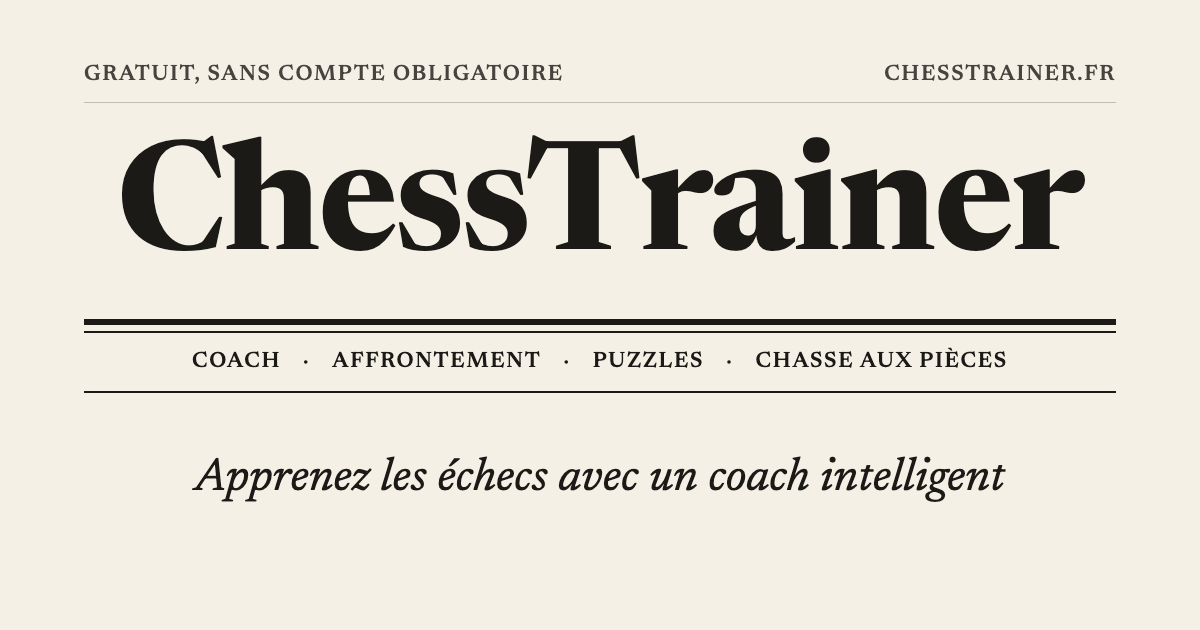
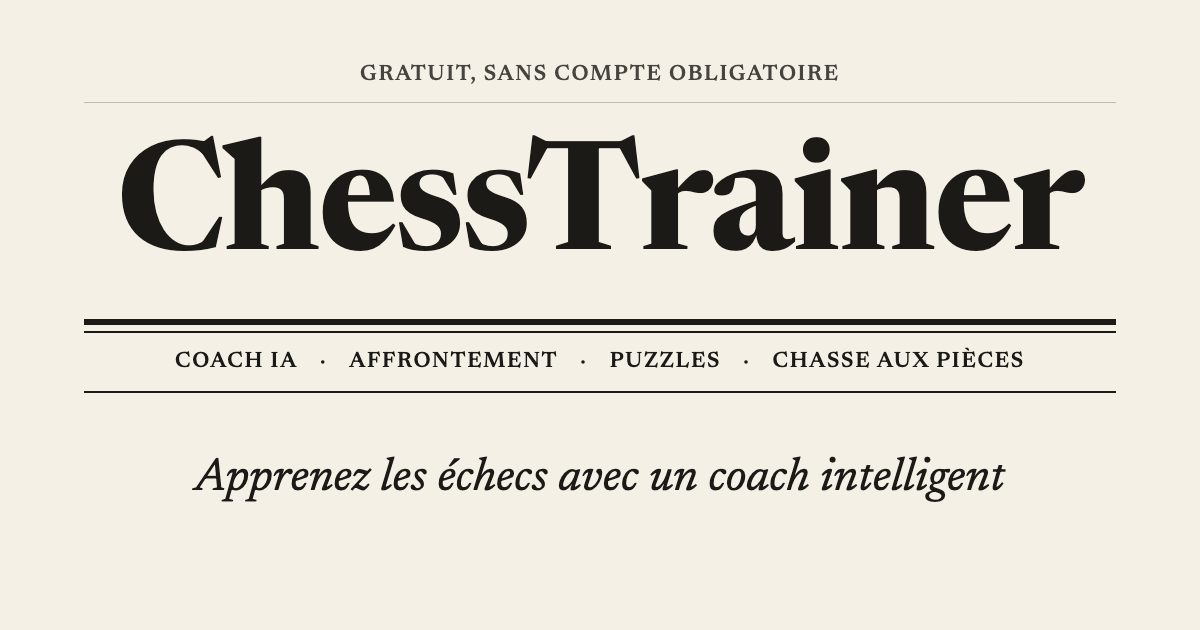
refactor(brand): draw the social image from the site's own words
The social image typed out its name, tagline, promise and modes by hand, and
its modes already matched neither the masthead's sections nor the landing's
modes: change the tagline or rename a mode, run the script again, and the old
words were drawn again with nothing failing. The script now reads the brand
and the palette from the design tokens and the modes' titles from the modes
table, the masthead's promise moves into the brand beside the tagline, and
the domain, which is the deploy's setting rather than data, leaves the image.
What the script read is written into the PNG as a text chunk, and a test
fails when it no longer matches the data.

diff --git a/src/lib/design-tokens.test.ts b/src/lib/design-tokens.test.ts
@@ -12,6 +12,7 @@ import {
   newsreaderMetrics,
   typeScale,
 } from '@/lib/design-tokens'
+import { MODES } from '@/features/home/modes'
 import tailwindConfig from '../../tailwind.config'
 
 /** WCAG 2.x relative luminance of a `#RRGGBB` colour. */
@@ -101,6 +102,31 @@ describe('design tokens', () => {
     // A PNG's header holds its width and height, as big-endian words, at 16.
     const png = readFileSync(resolve('public/og-image.png'))
     expect([png.readUInt32BE(16), png.readUInt32BE(20)]).toEqual(declared)
+  })
+
+  it('draws the social image from the words and colours the site holds', () => {
+    // scripts/render-social-image.mjs writes what it read into the PNG, as a
+    // tEXt chunk. A renamed mode or a new tagline would otherwise leave the old
+    // picture behind with nothing failing.
+    const png = readFileSync(resolve('public/og-image.png'))
+    let source: unknown = null
+    for (let at = 8; at < png.length;) {
+      const length = png.readUInt32BE(at)
+      if (png.toString('latin1', at + 4, at + 8) === 'tEXt') {
+        const data = png.toString('latin1', at + 8, at + 8 + length)
+        const split = data.indexOf('\0')
+        if (data.slice(0, split) === 'Source') source = JSON.parse(data.slice(split + 1))
+      }
+      at += 12 + length
+    }
+    expect(source, 'redraw it: node scripts/render-social-image.mjs').toEqual({
+      name: brand.name,
+      tagline: brand.tagline,
+      promise: brand.promise,
+      modes: MODES.map((mode) => mode.title),
+      paper: newsprint.paper.DEFAULT,
+      ink: newsprint.ink.DEFAULT,
+    })
   })
 
   it('measures contrast the way WCAG does', () => {

diff --git a/src/components/Layout/Masthead.tsx b/src/components/Layout/Masthead.tsx
@@ -105,7 +105,7 @@ export default function Masthead({ variant }: { variant: 'full' | 'compact' }) {
               'sm:order-none sm:flex sm:min-h-11 sm:items-center sm:border-b sm:border-ink/30 sm:pb-0 sm:text-left',
             )}
           >
-            Gratuit, sans compte obligatoire.
+            {brand.promise}.
           </p>
           <Account className="order-1 self-end sm:order-none sm:border-b sm:border-ink/30" />
           <Link

diff --git a/src/lib/design-tokens.ts b/src/lib/design-tokens.ts
@@ -325,6 +325,8 @@ export const brand = {
   /** Stands in for a logo until there is one. */
   mark: '♞',
   tagline: 'Apprenez les échecs avec un coach intelligent',
+  /** What the masthead promises above the name. */
+  promise: 'Gratuit, sans compte obligatoire',
   /** The AGPL obliges the offer of source, so this link is not decorative. */
   sourceUrl: 'https://github.com/Amayyas/ChessTrainer',
 } as const

diff --git a/docs/design-system.md b/docs/design-system.md
@@ -56,9 +56,10 @@ into that test before it goes into a component.
 - No icon library. Chess figurines are the pictograms; actions are named in
   words.
 - The mark is the figurine knight, ink on paper: the favicon draws it from the
-  figurine face's own outline, and the social image, which
-  `scripts/render-social-image.mjs` renders from the tokens, sets the
-  masthead around the name.
+  figurine face's own outline. The social image sets the masthead around the
+  name; `scripts/render-social-image.mjs` renders it from the brand, the
+  palette and the modes' titles, and a test fails when it no longer matches
+  them.
 - Moves are written in figurine notation. Grades use the chess annotation signs
   (`!`, `?!`, `?`, `??`), ★ for the best move, and ✓✓ and ✓ for very good and
   good moves.
